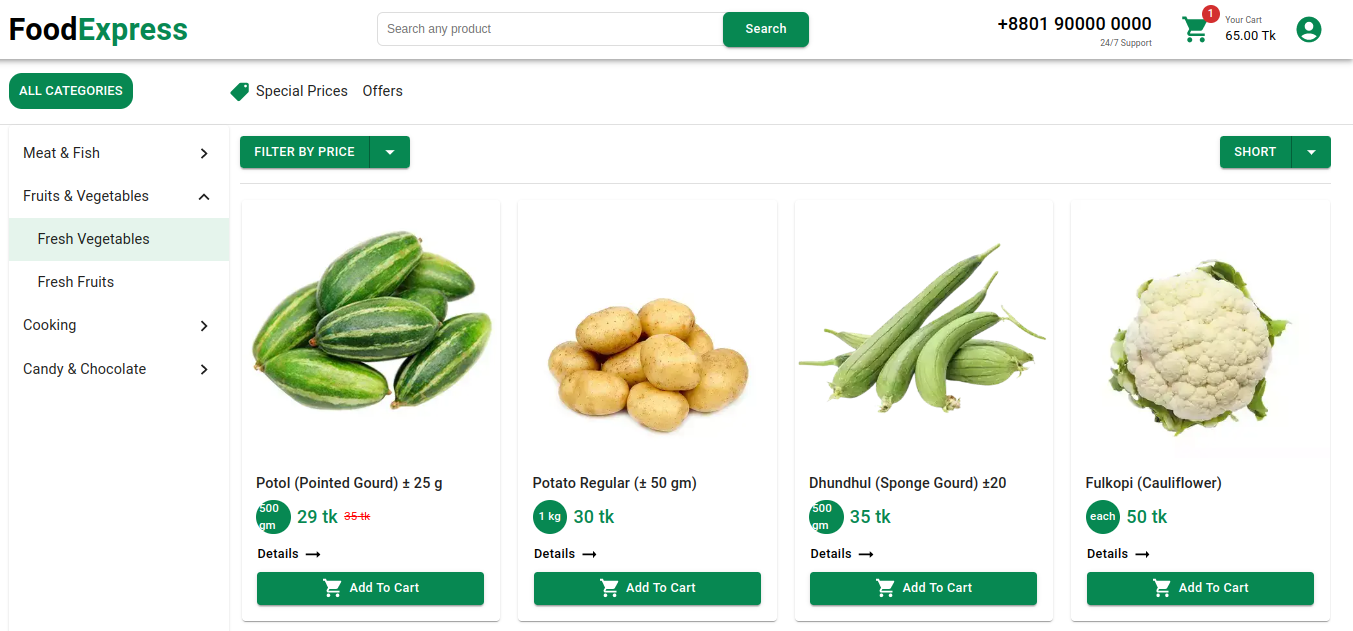
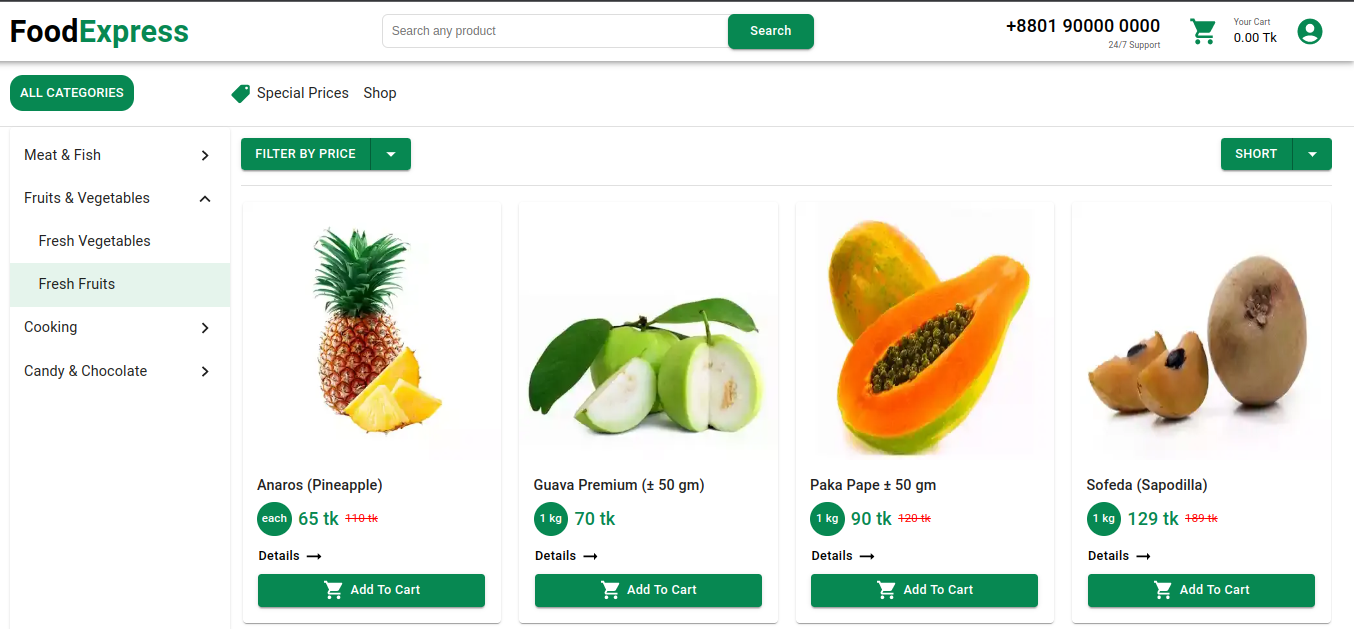
feat: shop page implemented

diff --git a/src/pages/products/index.js b/src/pages/products/index.js
@@ -1,6 +1,5 @@
 import { Box, Divider, Grid, Pagination, Typography } from '@mui/material';
 import Head from 'next/head';
-import { useRouter } from 'next/router';
 import { useEffect, useState } from 'react';
 import { useDispatch, useSelector } from 'react-redux';
 import FilterSection from '../../components/filter/FilterSection';
@@ -8,16 +7,13 @@ import Product from '../../components/product/Product';
 import ProductSkeleton from '../../components/ui/loading/ProductSkeleton';
 import Notify from '../../components/ui/notify/Notify';
 import { addToCart } from '../../redux/features/cart/cartSlice';
-import { useGetProductsByCategoryQuery } from '../../redux/features/products/productsApi';
-import styles from '../../styles/CategoryProduct.module.scss';
+import { useGetProductsQuery } from '../../redux/features/products/productsApi';
+import styles from '../../styles/Products.module.scss';
 
-const Category = () => {
+const Products = () => {
   const { message } = useSelector((state) => state.cart);
   const { searchTerm } = useSelector((state) => state.search);
   const dispatch = useDispatch();
-
-  const { query } = useRouter();
-  const { slug } = query;
 
   const [page, setPage] = useState(1);
   const [filterIndex, setFilterIndex] = useState(0);
@@ -49,14 +45,9 @@ const Category = () => {
   const {
     data: products,
     isLoading,
+    isError,
     isSuccess,
-  } = useGetProductsByCategoryQuery({
-    slug,
-    page,
-    filterPrice,
-    sortOrder,
-    searchTerm,
-  });
+  } = useGetProductsQuery({ page, filterPrice, sortOrder, searchTerm });
 
   const { pagination } = products?.meta || {};
 
@@ -73,7 +64,7 @@ const Category = () => {
   return (
     <>
       <Head>
-        <title>Product || FoodExpress</title>
+        <title>Products || FoodExpress</title>
       </Head>
 
       {isLoading && (
@@ -140,4 +131,4 @@ const Category = () => {
   );
 };
 
-export default Category;
+export default Products;

diff --git a/src/redux/features/products/productsApi.js b/src/redux/features/products/productsApi.js
@@ -12,9 +12,14 @@ export const productsApi = apiSlice.injectEndpoints({
         `/products?filters[variant][$eq]=${variant}&filters[sellPrice][$lte]=${filterPrice}&filters[title][$containsi]=${searchTerm}&sort[0]=sellPrice:${sortOrder}&pagination[page]=${page}&pagination[pageSize]=8&populate=*`,
     }),
 
-    getProducts: builder.query({
+    getProductsByCategory: builder.query({
       query: ({ slug, page, filterPrice, sortOrder, searchTerm }) =>
         `/products?filters[sub_category][slug][$eq]=${slug}&filters[sellPrice][$lte]=${filterPrice}&filters[title][$containsi]=${searchTerm}&sort[0]=sellPrice:${sortOrder}&pagination[page]=${page}&pagination[pageSize]=8&populate=*`,
+    }),
+
+    getProducts: builder.query({
+      query: ({ page, filterPrice, sortOrder, searchTerm }) =>
+        `/products?filters[sellPrice][$lte]=${filterPrice}&filters[title][$containsi]=${searchTerm}&sort[0]=sellPrice:${sortOrder}&pagination[page]=${page}&pagination[pageSize]=8&populate=*`,
     }),
 
     getProduct: builder.query({
@@ -27,6 +32,7 @@ export const productsApi = apiSlice.injectEndpoints({
 export const {
   useGetVariantProductsQuery,
   useGetFeatureProductsQuery,
+  useGetProductsByCategoryQuery,
   useGetProductsQuery,
   useGetProductQuery,
 } = productsApi;

diff --git a/src/styles/Products.module.scss b/src/styles/Products.module.scss
@@ -1,0 +1,28 @@
+.skeleton__wrapper {
+  display: grid;
+  grid-template-columns: repeat(auto-fit, minmax(250px, 1fr));
+  grid-gap: 20px;
+}
+
+.product__not-found {
+  display: grid;
+  align-content: center;
+  justify-content: center;
+  height: 70vh;
+}
+
+.filter__wrapper {
+  display: flex;
+  align-items: center;
+  justify-content: space-between;
+}
+
+.divider {
+  margin: 1rem 0 !important;
+}
+
+.pagination__wrapper {
+  margin: 2rem 0;
+  display: flex;
+  justify-content: center;
+}

diff --git a/src/components/layout/sub-header/SubHeader.jsx b/src/components/layout/sub-header/SubHeader.jsx
@@ -33,7 +33,7 @@ const SubHeader = () => {
                   </Typography>
                 </a>
               </Link>
-              <Link href='/' passHref>
+              <Link href='/products' passHref>
                 <a className={styles['sub-header--link']}>
                   <Typography variant='body1'>Shop</Typography>
                 </a>

diff --git a/src/components/ui/notify/Notify.jsx b/src/components/ui/notify/Notify.jsx
@@ -9,7 +9,6 @@ const Notify = ({ openSnackbar, closeSnackbar, message, severity }) => (
   >
     <Alert
       onClose={() => closeSnackbar()}
-      variant='filled'
       severity={severity}
       sx={{ width: '100%' }}
     >
